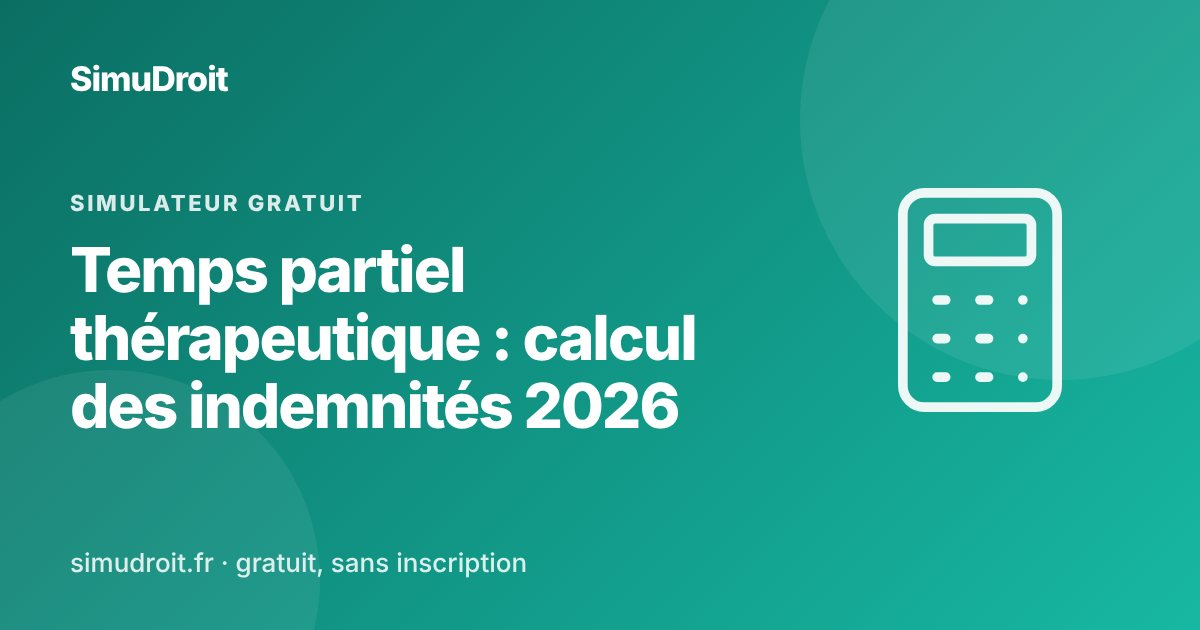
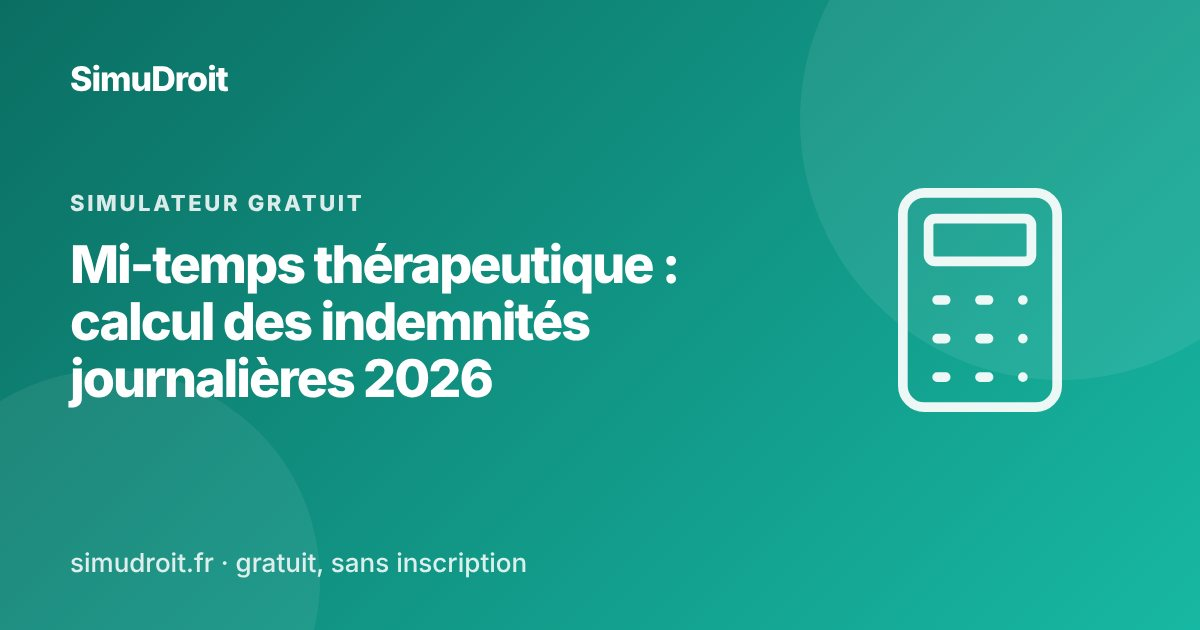
Titres et FAQ des pages ancienneté et temps partiel thérapeutique, section quotité et formalités dans le guide mi-temps thérapeutique
Claude-Session: https://claude.ai/code/session_01MGK9sqPbED2oii747MBsrw

Changed region(s): [[0.0617, 0.3921, 0.5858, 0.6937]]

diff --git a/simulateur-temps-partiel-therapeutique/index.html b/simulateur-temps-partiel-therapeutique/index.html
@@ -4,8 +4,8 @@
   <meta charset="UTF-8">
   <meta name="viewport" content="width=device-width, initial-scale=1.0">
 
-  <title>Temps partiel thérapeutique : calcul des indemnités</title>
-  <meta name="description" content="Estimez vos indemnités journalières en temps partiel thérapeutique : perte de salaire compensée, plafond de l&#x27;arrêt à temps complet.">
+  <title>Mi-temps thérapeutique : calcul des indemnités journalières</title>
+  <meta name="description" content="Simulateur de mi-temps thérapeutique : estimez vos indemnités journalières, la perte de salaire compensée et le plafond de l&#x27;arrêt à temps complet.">
   <meta name="robots" content="index, follow, max-image-preview:large, max-snippet:-1, max-video-preview:-1">
   <link rel="canonical" href="https://simudroit.fr/simulateur-temps-partiel-therapeutique/">
   <link rel="icon" href="https://simudroit.fr/favicon.svg" type="image/svg+xml">
@@ -14,8 +14,8 @@
   <link rel="apple-touch-icon" href="https://simudroit.fr/apple-touch-icon.png">
 
   <meta property="og:type" content="website">
-  <meta property="og:title" content="Temps partiel thérapeutique : calcul des indemnités 2026 | SimuDroit">
-  <meta property="og:description" content="Estimez vos indemnités journalières en temps partiel thérapeutique : perte de salaire compensée, plafond de l&#x27;arrêt à temps complet.">
+  <meta property="og:title" content="Mi-temps thérapeutique : calcul des indemnités journalières 2026 | SimuDroit">
+  <meta property="og:description" content="Simulateur de mi-temps thérapeutique : estimez vos indemnités journalières, la perte de salaire compensée et le plafond de l&#x27;arrêt à temps complet.">
   <meta property="og:url" content="https://simudroit.fr/simulateur-temps-partiel-therapeutique/">
   <meta property="og:image" content="https://simudroit.fr/assets/og/simulateur-temps-partiel-therapeutique.jpg">
   <meta property="og:image:width" content="1200">
@@ -25,8 +25,8 @@
 
   <meta name="twitter:card" content="summary_large_image">
   <meta name="twitter:image" content="https://simudroit.fr/assets/og/simulateur-temps-partiel-therapeutique.jpg">
-  <meta name="twitter:title" content="Temps partiel thérapeutique : calcul des indemnités 2026 | SimuDroit">
-  <meta name="twitter:description" content="Estimez vos indemnités journalières en temps partiel thérapeutique : perte de salaire compensée, plafond de l&#x27;arrêt à temps complet.">
+  <meta name="twitter:title" content="Mi-temps thérapeutique : calcul des indemnités journalières 2026 | SimuDroit">
+  <meta name="twitter:description" content="Simulateur de mi-temps thérapeutique : estimez vos indemnités journalières, la perte de salaire compensée et le plafond de l&#x27;arrêt à temps complet.">
 
   <style>
     :root {
@@ -336,20 +336,20 @@
   {"@context": "https://schema.org", "@type": "WebSite", "name": "SimuDroit", "url": "https://simudroit.fr/"}
   </script>
   <script type="application/ld+json">
-  {"@context": "https://schema.org", "@type": "WebPage", "name": "Temps partiel thérapeutique : calcul des indemnités 2026", "url": "https://simudroit.fr/simulateur-temps-partiel-therapeutique/", "description": "Estimez vos indemnités journalières en temps partiel thérapeutique : perte de salaire compensée, plafond de l'arrêt à temps complet.", "inLanguage": "fr-FR", "dateModified": "2026-10-27"}
+  {"@context": "https://schema.org", "@type": "WebPage", "name": "Mi-temps thérapeutique : calcul des indemnités journalières 2026", "url": "https://simudroit.fr/simulateur-temps-partiel-therapeutique/", "description": "Estimez vos indemnités journalières en temps partiel thérapeutique : perte de salaire compensée, plafond de l'arrêt à temps complet.", "inLanguage": "fr-FR", "dateModified": "2026-10-27"}
   </script>
   <script type="application/ld+json">
   {"@context": "https://schema.org", "@type": "BreadcrumbList", "itemListElement": [{"@type": "ListItem", "position": 1, "name": "Accueil", "item": "https://simudroit.fr/"}, {"@type": "ListItem", "position": 2, "name": "Temps partiel thérapeutique : estimation des indemnités", "item": "https://simudroit.fr/simulateur-temps-partiel-therapeutique/"}]}
   </script>
   <script type="application/ld+json">
-  {"@context": "https://schema.org", "@type": "FAQPage", "mainEntity": [{"@type": "Question", "name": "Comment sont calculées les indemnités en temps partiel thérapeutique ?", "acceptedAnswer": {"@type": "Answer", "text": "Selon un expert ameli, l'employeur envoie chaque mois une attestation de salaire à la caisse, et l'indemnité journalière est maintenue à hauteur de la perte de salaire, dans la limite de l'indemnité qui serait versée en arrêt à temps complet. Ce simulateur applique cette règle."}}, {"@type": "Question", "name": "Combien de temps peut durer un temps partiel thérapeutique ?", "acceptedAnswer": {"@type": "Answer", "text": "Les réponses d'experts ameli indiquent une durée maximale d'un an en général, avec une possibilité d'aller plus loin en affection de longue durée, sur accord du service médical. Le médecin conseil peut y mettre fin plus tôt. Confirmez votre situation auprès de votre caisse."}}, {"@type": "Question", "name": "Le résultat est-il garanti ?", "acceptedAnswer": {"@type": "Answer", "text": "Non. Il s'agit d'une estimation : le montant exact dépend de l'attestation de salaire de votre employeur, de votre gain journalier de base et de la décision du service médical."}}]}
+  {"@context": "https://schema.org", "@type": "FAQPage", "mainEntity": [{"@type": "Question", "name": "Comment sont calculées les indemnités en temps partiel thérapeutique ?", "acceptedAnswer": {"@type": "Answer", "text": "Selon un expert ameli, l'employeur envoie chaque mois une attestation de salaire à la caisse, et l'indemnité journalière est maintenue à hauteur de la perte de salaire, dans la limite de l'indemnité qui serait versée en arrêt à temps complet. Ce simulateur applique cette règle."}}, {"@type": "Question", "name": "Mi-temps thérapeutique ou temps partiel thérapeutique : quelle différence ?", "acceptedAnswer": {"@type": "Answer", "text": "C'est le même dispositif : « mi-temps thérapeutique » est le nom courant, « temps partiel thérapeutique » l'appellation de l'Assurance Maladie. La reprise à temps partiel n'est pas forcément de 50 % : la quotité est fixée avec le médecin."}}, {"@type": "Question", "name": "Combien de temps peut durer un temps partiel thérapeutique ?", "acceptedAnswer": {"@type": "Answer", "text": "Les réponses d'experts ameli indiquent une durée maximale d'un an en général, avec une possibilité d'aller plus loin en affection de longue durée, sur accord du service médical. Le médecin conseil peut y mettre fin plus tôt. Confirmez votre situation auprès de votre caisse."}}, {"@type": "Question", "name": "Le résultat est-il garanti ?", "acceptedAnswer": {"@type": "Answer", "text": "Non. Il s'agit d'une estimation : le montant exact dépend de l'attestation de salaire de votre employeur, de votre gain journalier de base et de la décision du service médical."}}]}
   </script>
   <script type="application/ld+json">
   {"@context": "https://schema.org", "@type": "WebApplication", "name": "Temps partiel thérapeutique : estimation des indemnités", "url": "https://simudroit.fr/simulateur-temps-partiel-therapeutique/", "description": "Estimez vos indemnités journalières en temps partiel thérapeutique : perte de salaire compensée, plafond de l'arrêt à temps complet.", "applicationCategory": "FinanceApplication", "operatingSystem": "Web", "inLanguage": "fr-FR", "offers": {"@type": "Offer", "price": "0", "priceCurrency": "EUR"}}
   </script>
   <meta name="theme-color" content="#201e48">
   <meta name="author" content="SimuDroit">
-  <meta property="og:image:alt" content="Temps partiel thérapeutique : calcul des indemnités 2026 | SimuDroit">
+  <meta property="og:image:alt" content="Mi-temps thérapeutique : calcul des indemnités journalières 2026 | SimuDroit">
   <link rel="alternate" hreflang="fr" href="https://simudroit.fr/simulateur-temps-partiel-therapeutique/">
   <link rel="alternate" hreflang="x-default" href="https://simudroit.fr/simulateur-temps-partiel-therapeutique/">
   <!-- Mesure d'audience Plausible : sans cookie, données anonymes -->
@@ -470,7 +470,7 @@
     <p>Ces éléments proviennent de réponses d'experts du forum ameli et non d'une page de règles complète : pour votre dossier, demandez le calcul à votre caisse via votre compte ameli ou au 36 46.</p>
   </section>
 
-  <section class="info-section sd-fold" id="faq-ind"><details><summary><h2>Questions fréquentes</h2></summary><h3>Comment sont calculées les indemnités en temps partiel thérapeutique ?</h3><p>Selon un expert ameli, l'employeur envoie chaque mois une attestation de salaire à la caisse, et l'indemnité journalière est maintenue à hauteur de la perte de salaire, dans la limite de l'indemnité qui serait versée en arrêt à temps complet. Ce simulateur applique cette règle.</p><h3>Combien de temps peut durer un temps partiel thérapeutique ?</h3><p>Les réponses d'experts ameli indiquent une durée maximale d'un an en général, avec une possibilité d'aller plus loin en affection de longue durée, sur accord du service médical. Le médecin conseil peut y mettre fin plus tôt. Confirmez votre situation auprès de votre caisse.</p><h3>Le résultat est-il garanti ?</h3><p>Non. Il s'agit d'une estimation : le montant exact dépend de l'attestation de salaire de votre employeur, de votre gain journalier de base et de la décision du service médical.</p></details></section><section class="info-section sd-fold" id="sources"><details><summary><h2>Sources officielles</h2></summary><ul><li><a href="https://forum-assures.ameli.fr/questions/1379653-calcul-paiement-indemnites-journalieres-mi-temps-therapeutique" rel="noopener">Forum ameli, réponse certifiée par un expert ameli (21 juin 2017) : calcul des indemnités journalières en temps partiel thérapeutique</a></li><li><a href="https://forum-assures.ameli.fr/questions/3676867-modalites-calcul-indemnites-temps-partiel-therapeutique" rel="noopener">Forum ameli, réponse d'un expert ameli (10 décembre 2025) : attestation de salaire mensuelle de l'employeur</a></li><li><a href="https://forum-assures.ameli.fr/questions/1425051-duree-temps-partiel-therapeutique" rel="noopener">Forum ameli : durée du temps partiel thérapeutique</a></li></ul></details></section>
+  <section class="info-section sd-fold" id="faq-ind"><details><summary><h2>Questions fréquentes</h2></summary><h3>Comment sont calculées les indemnités en temps partiel thérapeutique ?</h3><p>Selon un expert ameli, l'employeur envoie chaque mois une attestation de salaire à la caisse, et l'indemnité journalière est maintenue à hauteur de la perte de salaire, dans la limite de l'indemnité qui serait versée en arrêt à temps complet. Ce simulateur applique cette règle.</p><h3>Combien de temps peut durer un temps partiel thérapeutique ?</h3><p>Les réponses d'experts ameli indiquent une durée maximale d'un an en général, avec une possibilité d'aller plus loin en affection de longue durée, sur accord du service médical. Le médecin conseil peut y mettre fin plus tôt. Confirmez votre situation auprès de votre caisse.</p><h3>Mi-temps thérapeutique ou temps partiel thérapeutique : quelle différence ?</h3><p>C'est le même dispositif : « mi-temps thérapeutique » est le nom courant, « temps partiel thérapeutique » l'appellation de l'Assurance Maladie. La reprise à temps partiel n'est pas forcément de 50 % : la quotité est fixée avec le médecin.</p><h3>Le résultat est-il garanti ?</h3><p>Non. Il s'agit d'une estimation : le montant exact dépend de l'attestation de salaire de votre employeur, de votre gain journalier de base et de la décision du service médical.</p></details></section><section class="info-section sd-fold" id="sources"><details><summary><h2>Sources officielles</h2></summary><ul><li><a href="https://forum-assures.ameli.fr/questions/1379653-calcul-paiement-indemnites-journalieres-mi-temps-therapeutique" rel="noopener">Forum ameli, réponse certifiée par un expert ameli (21 juin 2017) : calcul des indemnités journalières en temps partiel thérapeutique</a></li><li><a href="https://forum-assures.ameli.fr/questions/3676867-modalites-calcul-indemnites-temps-partiel-therapeutique" rel="noopener">Forum ameli, réponse d'un expert ameli (10 décembre 2025) : attestation de salaire mensuelle de l'employeur</a></li><li><a href="https://forum-assures.ameli.fr/questions/1425051-duree-temps-partiel-therapeutique" rel="noopener">Forum ameli : durée du temps partiel thérapeutique</a></li></ul></details></section>
 
                                                                 <section class="sd-next" aria-labelledby="sd-next-t"><h2 id="sd-next-t">Et ensuite ?</h2><p class="sd-next-sub">Situation : <strong>Arrêt maladie ou accident</strong>. Les étapes qui reviennent le plus souvent :</p><ol class="sd-next-list"><li><a href="/simulateur-indemnites-journalieres-maladie/"><span class="sd-next-n">1</span><span class="sd-next-t"><strong>Indemnités journalières</strong><small>Ce que verse l&#x27;Assurance maladie pendant l&#x27;arrêt.</small></span></a></li><li><a href="/simulateur-maintien-salaire-maladie/"><span class="sd-next-n">2</span><span class="sd-next-t"><strong>Maintien de salaire</strong><small>Le complément versé par l&#x27;employeur.</small></span></a></li><li><a href="/simulateur-accident-du-travail/"><span class="sd-next-n">3</span><span class="sd-next-t"><strong>Accident du travail</strong><small>Indemnités et règles propres aux accidents du travail.</small></span></a></li><li class="here" aria-current="page"><span class="sd-next-n">4</span><span class="sd-next-t"><strong>Temps partiel thérapeutique</strong><small>Vous êtes ici</small></span></li><li><a href="/simulateur-pension-invalidite/"><span class="sd-next-n">5</span><span class="sd-next-t"><strong>Pension d&#x27;invalidité</strong><small>Catégories et montants selon la situation.</small></span></a></li><li><a href="/guides/conges-payes-arret-maladie-acquisition-report/"><span class="sd-next-n">6</span><span class="sd-next-t"><strong>Congés payés et arrêt maladie</strong><small>Acquisition et report pendant l&#x27;arrêt.</small></span></a></li></ol></section>
   <section class="sd-see" aria-labelledby="sd-see-t">

diff --git a/guides/mi-temps-therapeutique-amenagement-poste-medecine-travail/index.html b/guides/mi-temps-therapeutique-amenagement-poste-medecine-travail/index.html
@@ -136,6 +136,14 @@
 <li><strong>Chaque mois :</strong> l'employeur transmet une attestation de salaire à la caisse, qui verse des indemnités journalières à hauteur de la perte de salaire (plafonnée). Estimez le montant avec le <a href="/simulateur-temps-partiel-therapeutique/">simulateur de temps partiel thérapeutique</a>.</li>
 </ol>
 <p>La fin du temps partiel thérapeutique est fixée par le médecin traitant, sauf prolongation, et le médecin-conseil peut y mettre fin plus tôt. Sur la durée maximale, les sources divergent selon le cas (un an en général, davantage en affection de longue durée, plafond d'indemnisation de trois ans selon l'INRS) : demandez la vôtre à votre caisse.</p>
+<h2>Quotité, formalités de l'employeur et indemnités</h2>
+<ul>
+<li><strong>Quotité :</strong> selon la page d'<a href="https://www.ameli.fr/assure/droits-demarches/maladie-accident-hospitalisation/arret-travail-maladie/reprendre-travail-apres-arret-maladie" target="_blank" rel="noopener noreferrer">ameli sur la reprise du travail après un arrêt maladie</a>, elle va de 20 % à 80 % du temps de travail et peut évoluer avec l'état de santé. Ce n'est donc pas forcément un mi-temps.</li>
+<li><strong>Sans arrêt préalable :</strong> depuis le 1er janvier 2019, le temps partiel thérapeutique n'a plus à être précédé d'un arrêt de travail indemnisé à temps complet (même page).</li>
+<li><strong>Côté employeur :</strong> d'après la <a href="https://www.ameli.fr/entreprise/vos-salaries/arret-de-travail/reprise-temps-partiel-therapeutique" target="_blank" rel="noopener noreferrer">page ameli destinée aux employeurs</a>, il établit une attestation d'accord de principe, puis une attestation de travail pour motif thérapeutique sur net-entreprises.fr, qui indique la période à temps partiel, le salaire brut perçu et le salaire brut perdu.</li>
+<li><strong>Côté salarié :</strong> vous transmettez à votre caisse la prescription initiale et l'attestation d'accord de l'employeur. La caisse répond après avis du médecin du travail.</li>
+<li><strong>Montant :</strong> ces pages ne le précisent pas. Estimez-le avec le <a href="/simulateur-temps-partiel-therapeutique/">simulateur de mi-temps thérapeutique</a>.</li>
+</ul>
 <h2>Demander un aménagement de poste via la médecine du travail</h2>
 <ul>
 <li><strong>À tout moment :</strong> vous pouvez saisir le médecin du travail (service de prévention et de santé au travail), sans attendre un arrêt.</li>
@@ -150,7 +158,7 @@
 <ul><li><a href="/modeles-de-lettres/?type=tpt">Lettre de demande de reprise à temps partiel thérapeutique</a></li><li><a href="/modeles-de-lettres/?type=amenagement">Lettre de demande d'aménagement de poste</a></li></ul>
 <p>Ces règles concernent les salariés du secteur privé (régime général). Les fonctionnaires relèvent d'un régime différent.</p>
 <h2>Sources</h2>
-<ul><li><a href="https://www.inrs.fr/publications/juridique/focus-juridiques/focus-juridique-temps-partiel-therapeutique.html" target="_blank" rel="noopener noreferrer">INRS : temps partiel thérapeutique et prévention des risques professionnels</a></li><li><a href="https://code.travail.gouv.fr/fiche-service-public/un-salarie-doit-il-passer-une-visite-medicale-apres-un-arret-de-travail" target="_blank" rel="noopener noreferrer">Code du travail numérique : visite médicale après un arrêt de travail</a></li><li><a href="https://www.service-public.gouv.fr/particuliers/vosdroits/F2871" target="_blank" rel="noopener noreferrer">Service-Public : visite médicale de reprise (F2871)</a></li></ul>
+<ul><li><a href="https://www.ameli.fr/entreprise/vos-salaries/arret-de-travail/reprise-temps-partiel-therapeutique" target="_blank" rel="noopener noreferrer">ameli : formalités en cas de reprise à temps partiel pour motif thérapeutique</a></li><li><a href="https://www.ameli.fr/assure/droits-demarches/maladie-accident-hospitalisation/arret-travail-maladie/reprendre-travail-apres-arret-maladie" target="_blank" rel="noopener noreferrer">ameli : reprendre le travail après un arrêt maladie</a></li><li><a href="https://www.inrs.fr/publications/juridique/focus-juridiques/focus-juridique-temps-partiel-therapeutique.html" target="_blank" rel="noopener noreferrer">INRS : temps partiel thérapeutique et prévention des risques professionnels</a></li><li><a href="https://code.travail.gouv.fr/fiche-service-public/un-salarie-doit-il-passer-une-visite-medicale-apres-un-arret-de-travail" target="_blank" rel="noopener noreferrer">Code du travail numérique : visite médicale après un arrêt de travail</a></li><li><a href="https://www.service-public.gouv.fr/particuliers/vosdroits/F2871" target="_blank" rel="noopener noreferrer">Service-Public : visite médicale de reprise (F2871)</a></li></ul>
 <h2>Guides liés</h2>
 <ul><li><a href="/guides/rupture-conventionnelle-arret-maladie-temps-partiel-therapeutique/">Rupture conventionnelle pendant un arrêt maladie ou un temps partiel thérapeutique</a></li><li><a href="/guides/arret-maladie-indemnites-journalieres-carence-employeur/">Arrêt maladie : indemnités journalières, carence et part de l'employeur</a></li></ul>
 <h2>Questions fréquentes</h2>

diff --git a/simulateur-anciennete/index.html b/simulateur-anciennete/index.html
@@ -4,7 +4,7 @@
   <meta charset="UTF-8">
   <meta name="viewport" content="width=device-width, initial-scale=1.0">
 
-  <title>Calcul de l’ancienneté : années, mois et jours</title>
+  <title>Calcul d’ancienneté : années, mois et jours entre deux dates</title>
   <meta name="description" content="Calculez votre ancienneté entre deux dates en années, mois et jours, et l&#x27;ancienneté retenue pour l&#x27;indemnité légale de licenciement.">
   <meta name="robots" content="index, follow, max-image-preview:large, max-snippet:-1, max-video-preview:-1">
   <link rel="canonical" href="https://simudroit.fr/simulateur-anciennete/">
